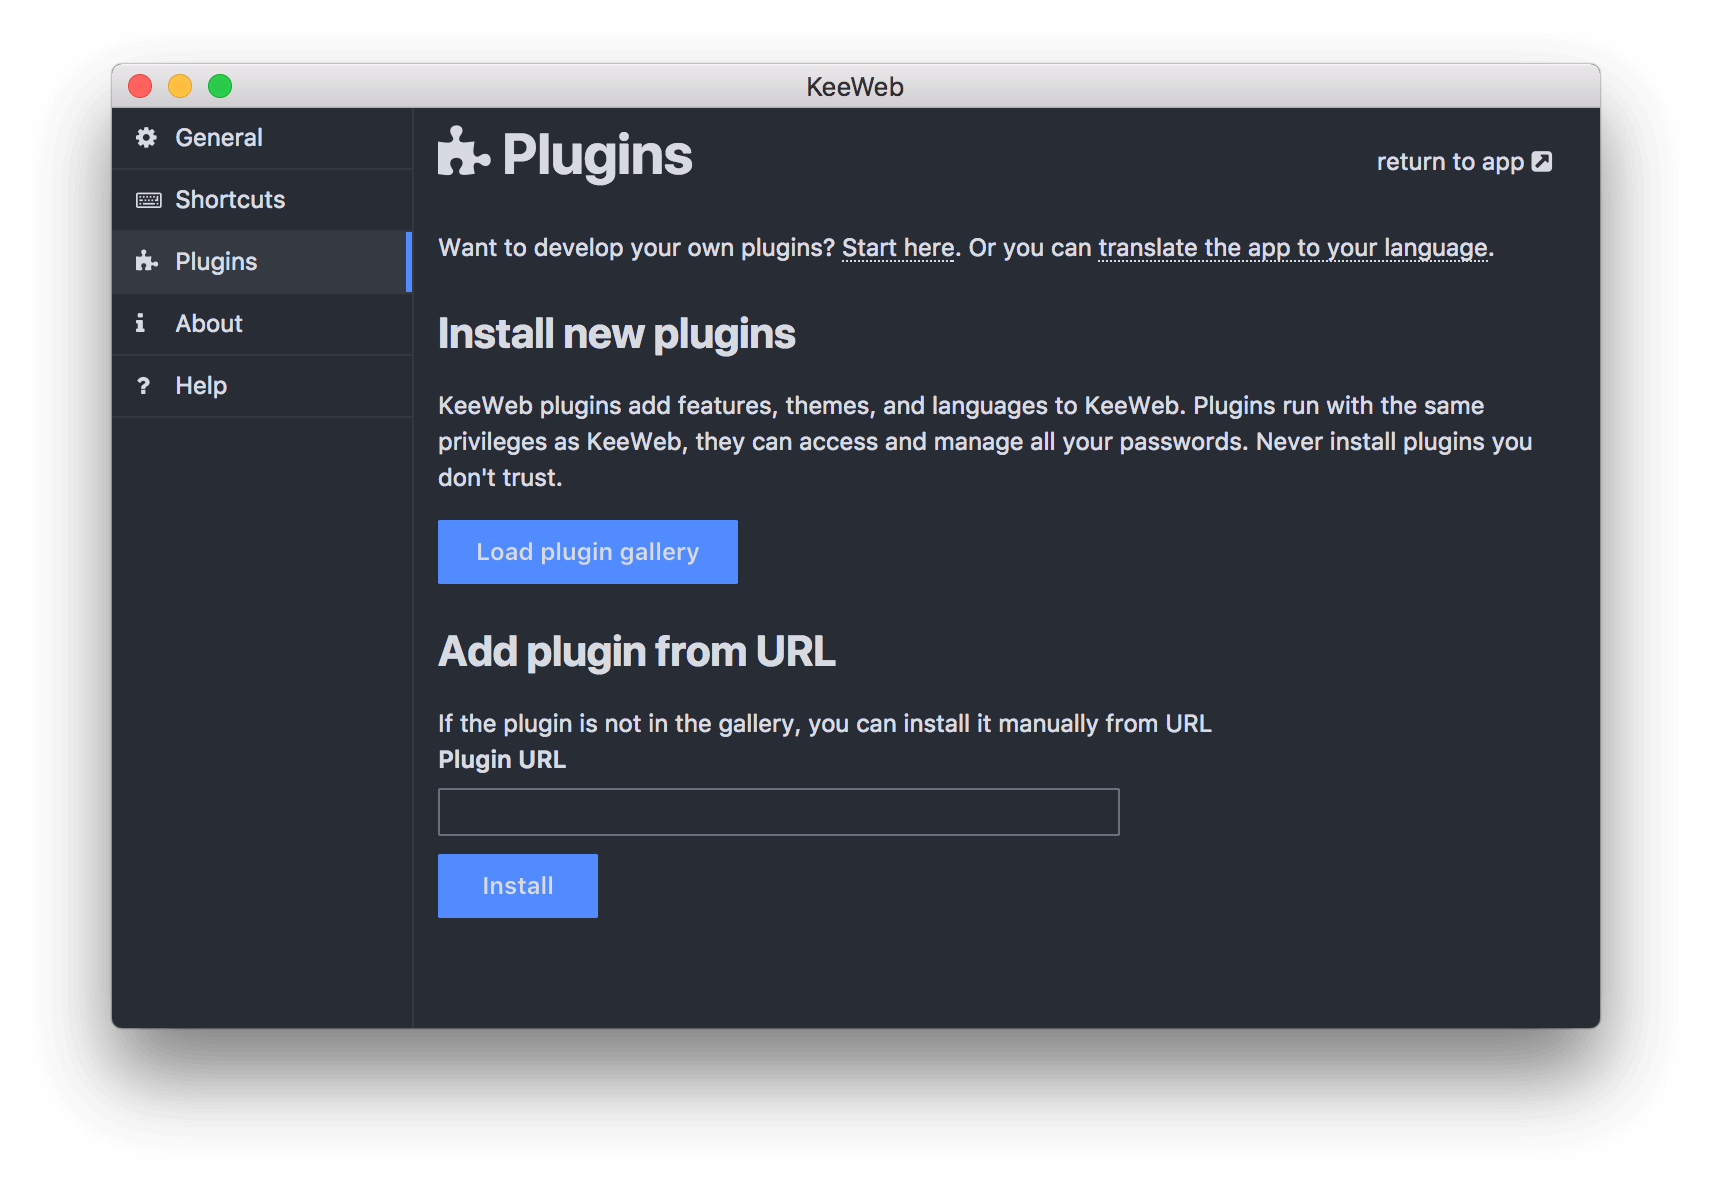
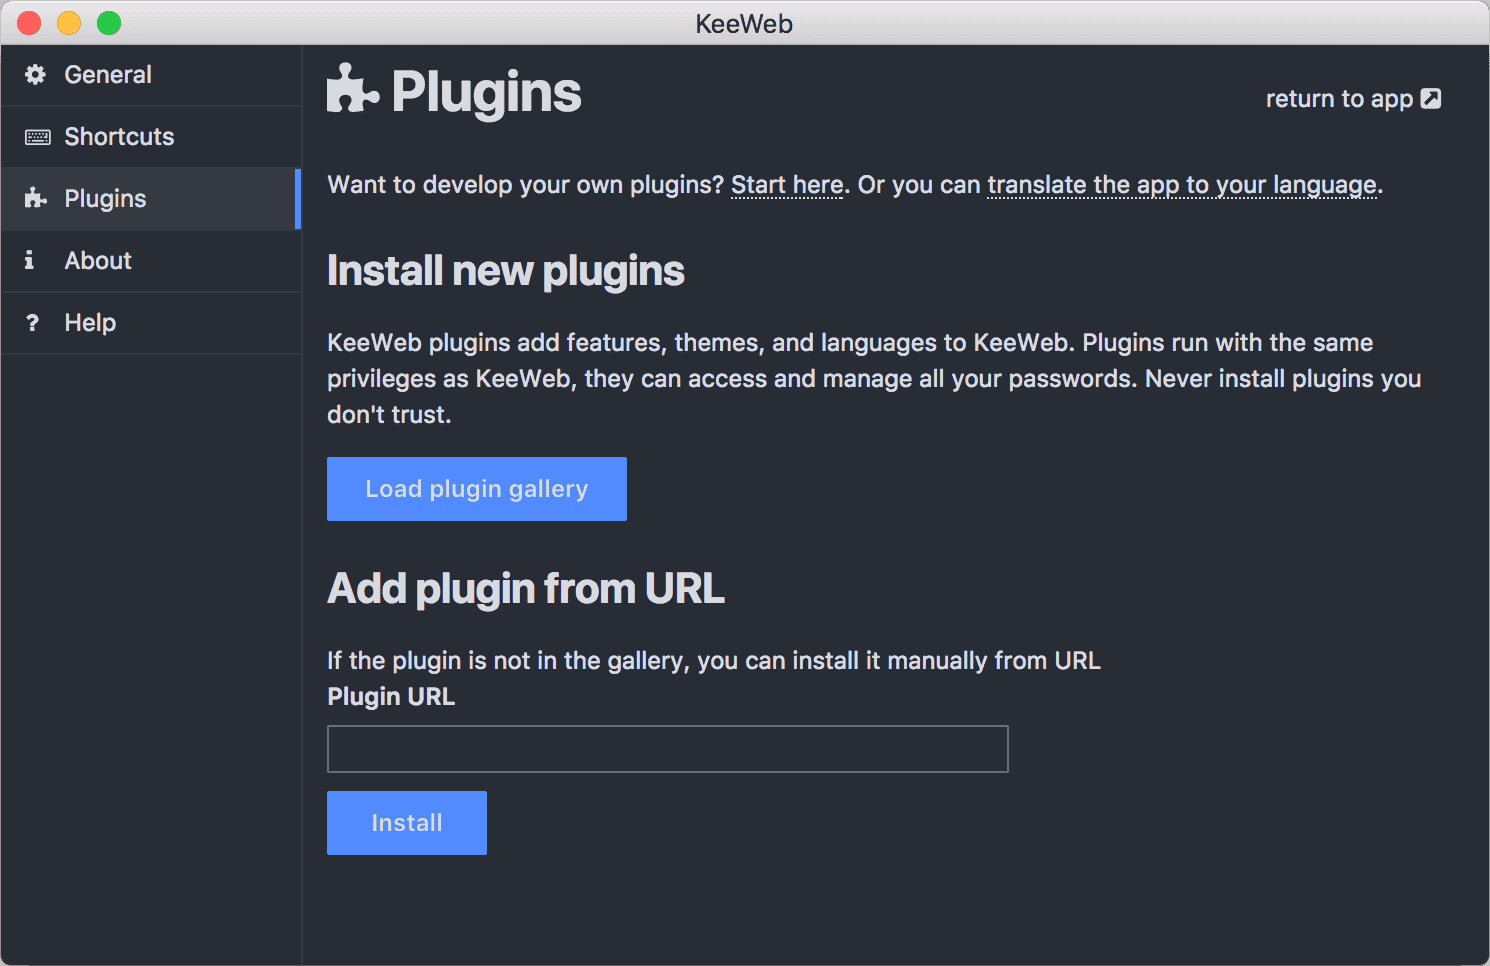
screenshots optimized

diff --git a/docs/index.html b/docs/index.html
@@ -13,7 +13,7 @@
     <p>Want to create your own plugin? <a href="create.html">Here's a plugin creation tool page</a>.</p>
     <h2>How to install plugins</h2>
     <p>Go to Settings &rarr; Plugins and click Load plugin gallery:</p>
-    <img src="img/install.png" style="width: 856px" class="img-install" />
+    <img src="img/install.png" style="width: 745px" class="img-install" />
     <p>
         <svg class="icon" width="1024" height="1024" viewBox="0 0 1024 1024"><path class="path" d="M755.75 575.15c-13.95-9.96-28.52-16.59-43.47-19.92-8.84-1.69-18.06-2.33-27.57-1.81-8.99 0.5-17.56 1.68-25.69 3.52-6.1 1.69-12.22 3.89-18.35 6.59-18.18 8.02-33.89 18.12-46.79 30.33-12.22 12.9-22.32 28.62-30.34 46.79-2.7 6.12-4.9 12.24-6.59 18.34-1.84 8.14-3.03 16.7-3.52 25.69-0.52 9.51 0.12 18.73 1.81 27.57 3.33 14.95 9.96 29.52 19.92 43.47 3.89 5.44 8.08 10.4 12.56 14.88 20.06 20.03 45.83 30.7 75.42 34.11 8.92 1.02 18.12 1.68 26.53 4.48 5.12 1.7 9.16 4.08 12.08 7.02 6.65 6.6 7.63 16.1 2.5 27.24-3.15 6.84-7.7 13.45-12.96 18.84l-2.79 2.86c-3.93 3.92-6.41 6.4-7.05 7.04-3.13 3.16-6.1 6.15-9.06 9.15l-2.96 2.92c-10.52 10.58-21.09 21.12-31.66 31.65-22.76 22.82-45.57 45.58-68.38 68.36-7.5 7.5-15 15-22.5 22.49-3.46 3.45-7.07 6.38-10.78 8.79-1.8 1.22-3.49 2.24-5.18 3.16-19.6 9.89-41.43 5.92-59.24-11.88-5.4-5.4-10.62-10.62-15.85-15.84-30.25-30.25-60.48-60.52-90.77-90.73-8.59-8.57-17.13-17.08-25.68-25.59-6.12-6.09-12.67-11.85-19.56-17.06-5.72-4.33-11.59-7.56-17.46-9.73-21.16-7.32-41.41-2.01-54.67 13.26-3.81 4.8-7 10.47-9.39 16.94-3.43 9.26-4.6 19.47-5.9 29.36-4.9 37.53-25.8 68.43-55.98 82.65-7.48 3.65-15.49 6.29-23.9 7.78-7.95 1.41-15.95 1.71-23.85 1.04-26.61-1.35-49.48-13.09-68.51-32.57-1.68-1.67-2.1-2.09-2.51-2.51-19.48-19.02-31.22-41.9-32.57-68.5-0.68-7.9-0.37-15.9 1.04-23.85 1.49-8.41 4.13-16.43 7.78-23.9 14.22-30.18 45.13-51.07 82.65-55.97 9.89-1.29 20.1-2.47 29.36-5.9 6.94-2.56 12.96-6.05 17.97-10.23 14.54-13.15 19.59-32.63 12.84-52.34-2.78-7.35-6-13.22-10.33-18.94-5.21-6.88-10.97-13.43-17.06-19.55-8.51-8.55-17.03-17.09-25.55-25.63-26.92-26.98-53.84-53.88-80.75-80.78l-10.03-10.03c-5.22-5.22-10.45-10.45-15.26-15.27-18.39-18.4-22.35-40.22-12.46-59.82 0.92-1.69 1.94-3.37 3.08-5.05 2.49-3.84 5.42-7.45 8.87-10.91 7.49-7.5 14.99-15 22.49-22.5 22.77-22.81 45.54-45.62 68.36-68.38 10.53-10.57 21.06-21.14 31.65-31.66l2.92-2.96c2.99-2.97 5.99-5.93 8.98-8.9 0.8-0.81 3.28-3.29 7.2-7.22l2.86-2.79c5.39-5.26 12-9.8 18.84-12.96 11.14-5.13 20.63-4.15 27.24 2.5 2.94 2.92 5.32 6.96 7.02 12.08 2.79 8.41 3.45 17.61 4.48 26.53 3.41 29.59 14.08 55.35 34.11 75.41 4.49 4.48 9.44 8.67 14.88 12.56 13.95 9.96 28.52 16.59 43.47 19.92 8.84 1.69 18.06 2.33 27.57 1.81 8.99-0.5 17.56-1.68 25.69-3.52 6.1-1.69 12.22-3.89 18.35-6.59 18.18-8.02 33.89-18.12 46.79-30.33 12.22-12.9 22.32-28.62 30.34-46.79 2.7-6.12 4.9-12.24 6.59-18.34 1.84-8.14 3.03-16.7 3.52-25.69 0.52-9.51-0.12-18.73-1.81-27.57-3.33-14.95-9.96-29.52-19.92-43.47-3.89-5.44-8.08-10.4-12.56-14.88-20.06-20.03-45.83-30.7-75.42-34.11-8.92-1.02-18.12-1.68-26.53-4.48-5.12-1.7-9.16-4.08-12.08-7.02-6.65-6.6-7.63-16.1-2.5-27.24 3.15-6.84 7.7-13.45 12.96-18.84l2.79-2.86c3.93-3.92 6.41-6.4 7.05-7.04 3.13-3.16 6.1-6.15 9.06-9.15l2.96-2.92c10.52-10.58 21.09-21.12 31.66-31.65 22.76-22.82 45.57-45.58 68.38-68.35 7.5-7.5 15-15 22.5-22.49 3.46-3.45 7.07-6.38 10.78-8.79 1.8-1.22 3.49-2.24 5.18-3.16 19.6-9.89 41.43-5.92 59.24 11.88 5.4 5.4 10.62 10.62 15.85 15.84 30.25 30.25 60.48 60.52 90.77 90.73 8.59 8.57 17.13 17.08 25.68 25.59 6.12 6.09 12.67 11.85 19.56 17.06 5.72 4.33 11.59 7.56 17.46 9.73 21.16 7.32 41.41 2.01 54.67-13.26 3.81-4.8 7-10.47 9.39-16.94 3.43-9.26 4.6-19.47 5.9-29.36 4.9-37.53 25.8-68.43 55.98-82.65 7.48-3.65 15.49-6.28 23.9-7.78 7.95-1.41 15.95-1.71 23.85-1.04 26.61 1.35 49.48 13.09 68.51 32.57 1.68 1.67 2.1 2.09 2.51 2.51 19.48 19.02 31.22 41.9 32.57 68.5 0.68 7.9 0.37 15.9-1.04 23.85-1.49 8.41-4.13 16.43-7.78 23.9-14.22 30.18-45.13 51.07-82.65 55.97-9.89 1.29-20.1 2.47-29.36 5.9-6.94 2.56-12.96 6.05-17.97 10.23-14.54 13.15-19.59 32.63-12.84 52.34 2.78 7.35 6 13.22 10.33 18.94 5.21 6.88 10.97 13.43 17.06 19.55 8.51 8.55 17.03 17.09 25.55 25.63 30.26 30.33 60.54 60.56 90.78 90.81 5.22 5.22 10.45 10.45 15.26 15.27 18.39 18.4 22.35 40.22 12.46 59.82-0.92 1.69-1.94 3.37-3.08 5.05-2.49 3.84-5.42 7.45-8.87 10.91-7.49 7.5-14.99 15-22.49 22.5-22.77 22.81-45.54 45.62-68.36 68.38-10.53 10.57-21.06 21.14-31.65 31.66l-2.92 2.96c-2.99 2.97-5.99 5.93-8.98 8.9-0.8 0.81-3.28 3.29-7.2 7.22l-2.86 2.79c-5.39 5.26-12 9.8-18.84 12.96-11.14 5.13-20.63 4.15-27.24-2.5-2.94-2.92-5.32-6.96-7.02-12.08-2.79-8.41-3.45-17.61-4.48-26.53-3.41-29.59-14.08-55.35-34.11-75.41C766.15 583.23 761.19 579.03 755.75 575.15z"/></svg>
         <svg class="icon" width="1792" height="1792" viewBox="0 0 1792 1792"><path d="M782 1078q-1 3-12.5-.5t-31.5-11.5l-20-9q-44-20-87-49-7-5-41-31.5t-38-28.5q-67 103-134 181-81 95-105 110-4 2-19.5 4t-18.5 0q6-4 82-92 21-24 85.5-115t78.5-118q17-30 51-98.5t36-77.5q-8-1-110 33-8 2-27.5 7.5t-34.5 9.5-17 5q-2 2-2 10.5t-1 9.5q-5 10-31 15-23 7-47 0-18-4-28-21-4-6-5-23 6-2 24.5-5t29.5-6q58-16 105-32 100-35 102-35 10-2 43-19.5t44-21.5q9-3 21.5-8t14.5-5.5 6 .5q2 12-1 33 0 2-12.5 27t-26.5 53.5-17 33.5q-25 50-77 131l64 28q12 6 74.5 32t67.5 28q4 1 10.5 25.5t4.5 30.5zm-205-486q3 15-4 28-12 23-50 38-30 12-60 12-26-3-49-26-14-15-18-41l1-3q3 3 19.5 5t26.5 0 58-16q36-12 55-14 17 0 21 17zm698 129l63 227-139-42zm-1108 800l694-232v-1032l-694 233v1031zm1241-317l102 31-181-657-100-31-216 536 102 31 45-110 211 65zm-503-962l573 184v-380zm311 1323l158 13-54 160-40-66q-130 83-276 108-58 12-91 12h-84q-79 0-199.5-39t-183.5-85q-8-7-8-16 0-8 5-13.5t13-5.5q4 0 18 7.5t30.5 16.5 20.5 11q73 37 159.5 61.5t157.5 24.5q95 0 167-14.5t157-50.5q15-7 30.5-15.5t34-19 28.5-16.5zm448-1079v1079l-774-246q-14 6-375 127.5t-368 121.5q-13 0-18-13 0-1-1-3v-1078q3-9 4-10 5-6 20-11 106-35 149-50v-384l558 198q2 0 160.5-55t316-108.5 161.5-53.5q20 0 20 21v418z"/></svg>

diff --git a/docs/css/site.css b/docs/css/site.css
@@ -60,12 +60,18 @@ p {
     fill: #6386EC;
     margin: 20px 10px;
 }
+.img-install {
+    margin: 55px;
+    box-shadow: 0 20px 35px rgba(0, 0, 0, 0.5);
+}
 
 @media only screen and (max-width: 480px) {
     p, h1 {
         margin-bottom: 1em;
     }
     img.img-install {
-        width: 100% !important;
+        width: calc(100% - 40px) !important;
+        margin: 20px;
+        box-shadow: 0 5px 10px rgba(0, 0, 0, 0.5);
     }
 }
